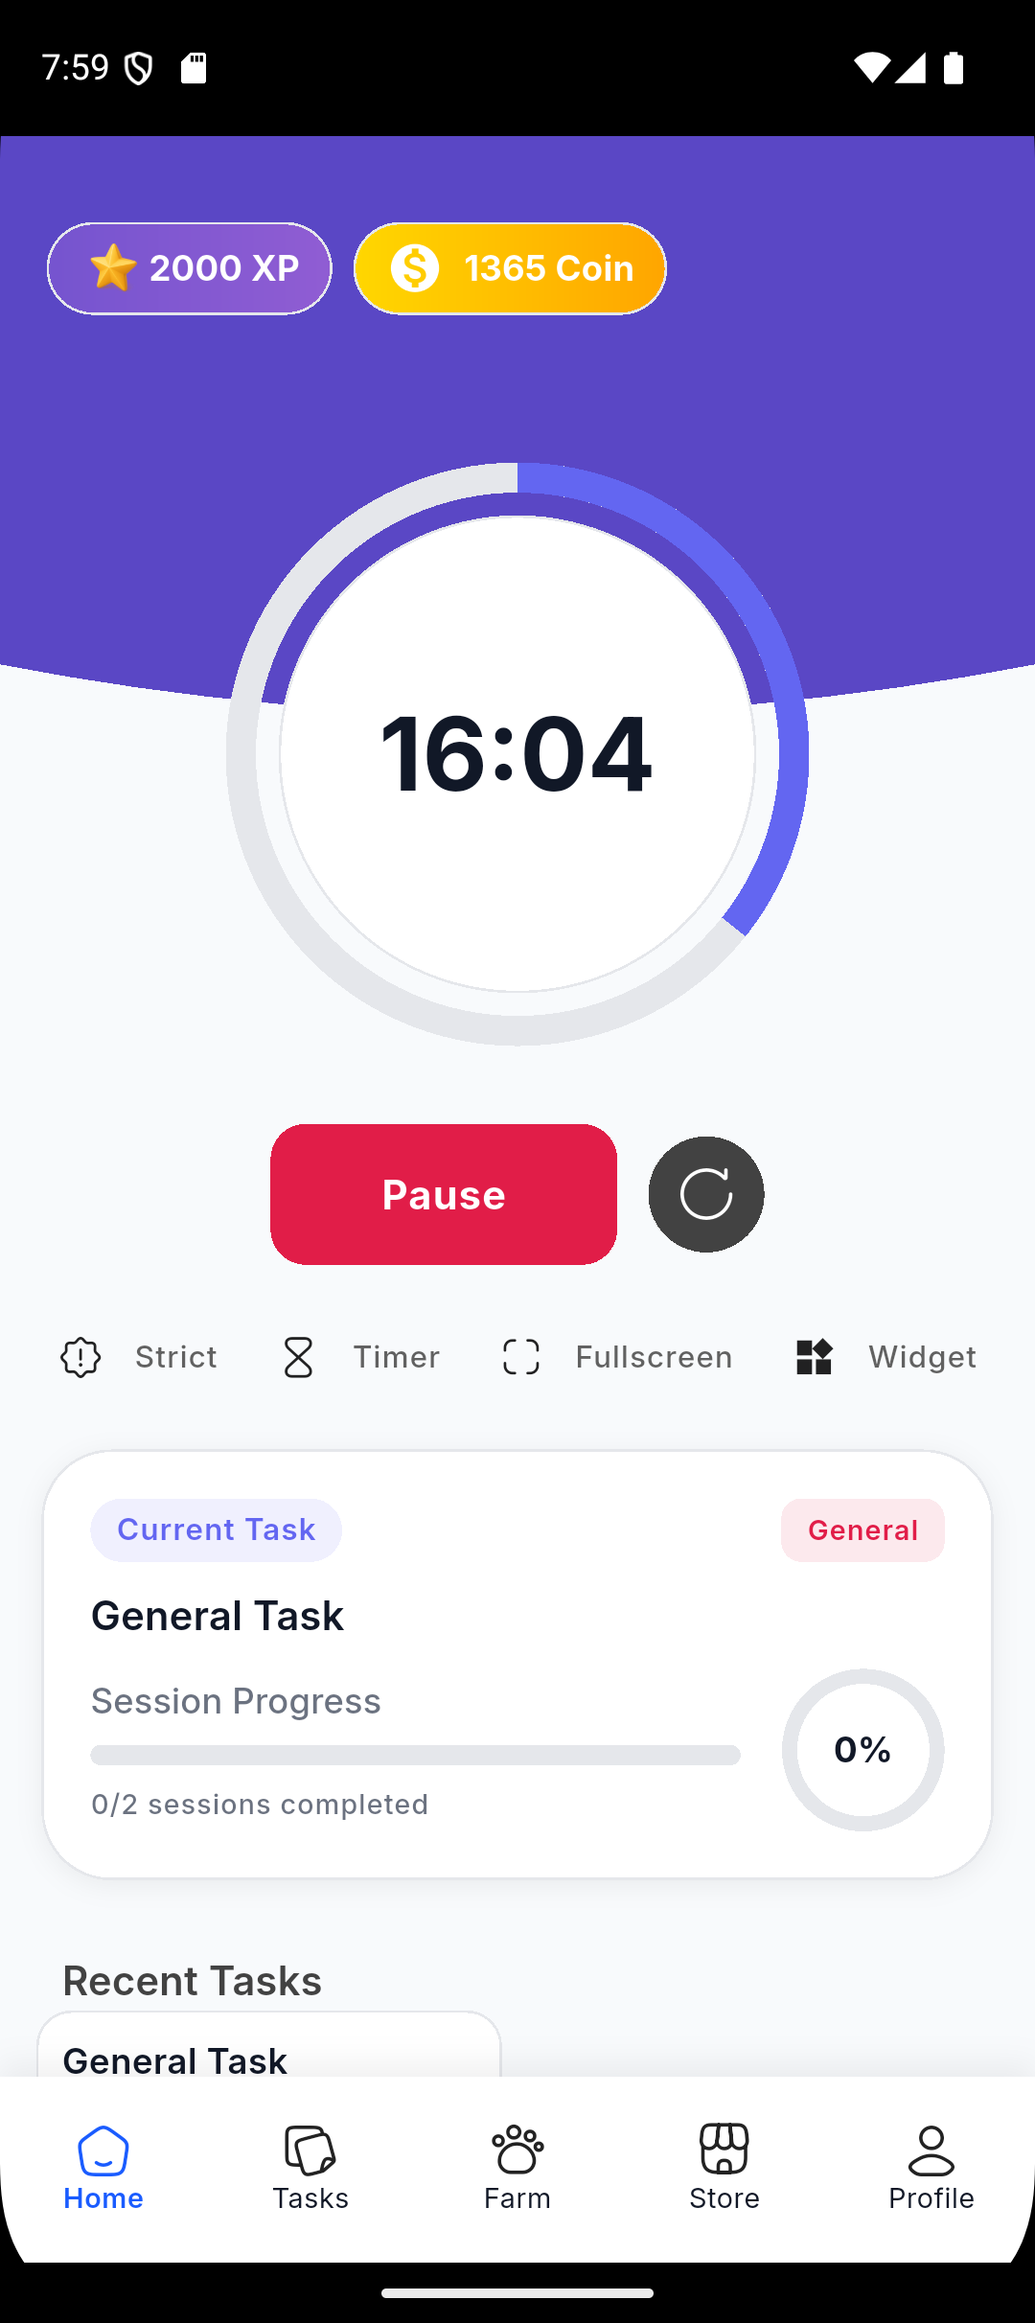
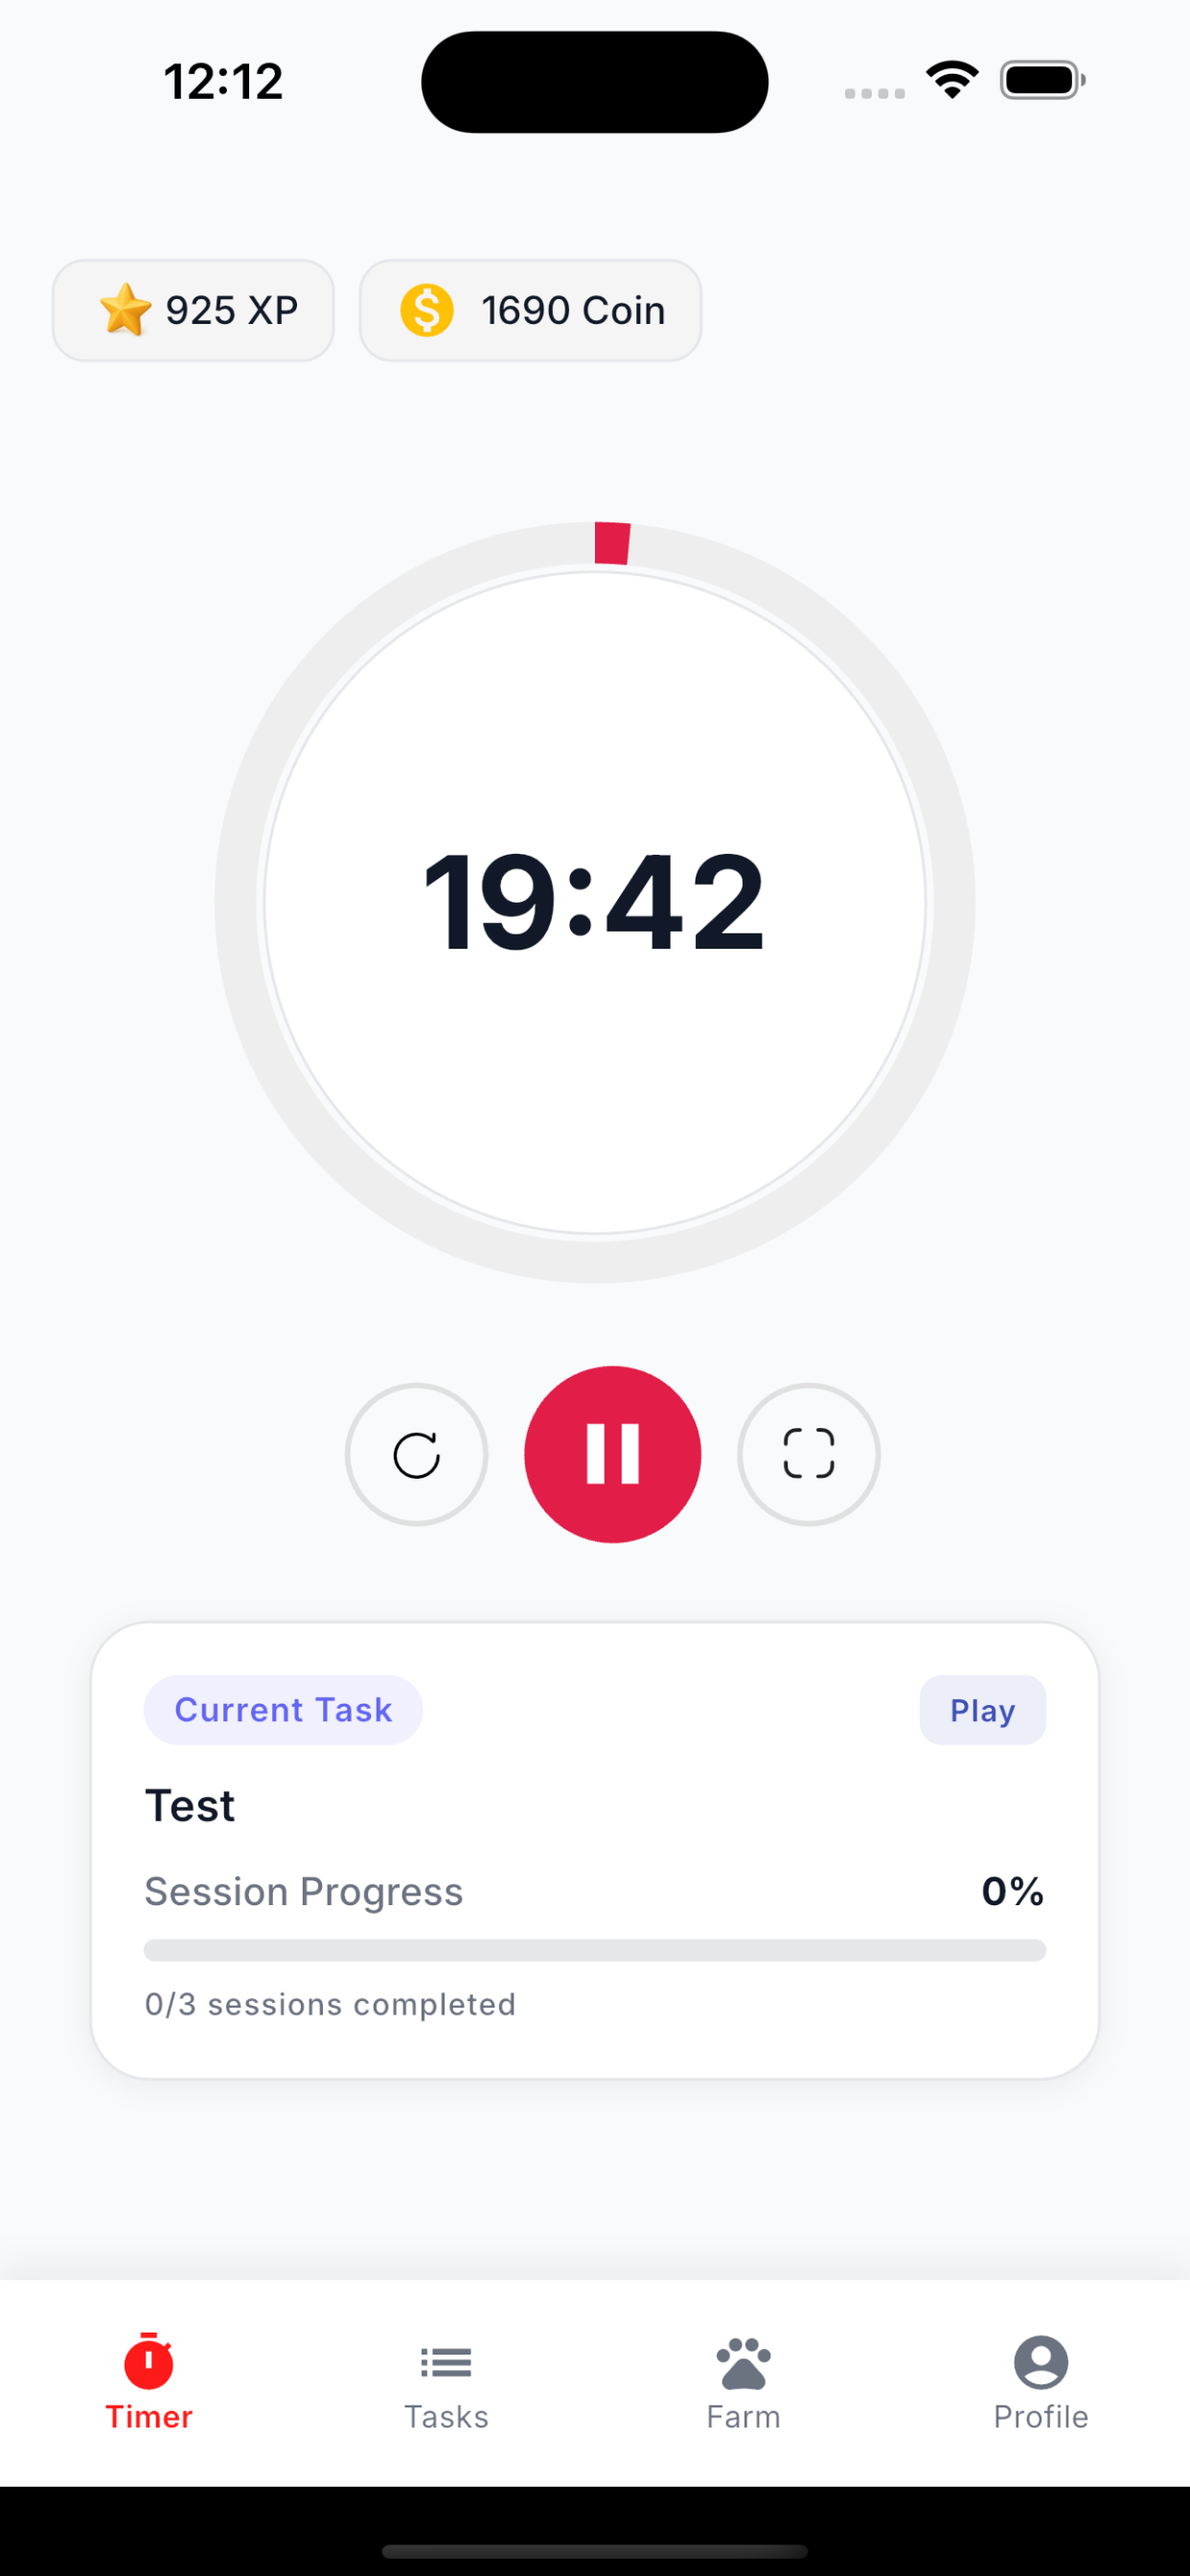
new apps

diff --git a/src/components/sections/Projects.tsx b/src/components/sections/Projects.tsx
@@ -27,8 +27,13 @@ const Projects: React.FC = () => {
         mainImage: require('../../assets/project/farmodo/farmodo-home.png'),
         images: [
           require('../../assets/project/farmodo/farmodo-home.png'),
-          require('../../assets/project/farmodo/farmodo-reward.png'),
-          require('../../assets/project/farmodo/farmodo-store.png')
+          require('../../assets/project/farmodo/farmodo-task.png'),
+          require('../../assets/project/farmodo/farmodo-fullscreen.png'),
+          require('../../assets/project/farmodo/farmodo-store.png'),
+          require('../../assets/project/farmodo/farmodo-reward.jpg'),
+          require('../../assets/project/farmodo/farmodo-reward-1.jpg'),
+          require('../../assets/project/farmodo/farmodo-reward-2.jpg'),
+          require('../../assets/project/farmodo/farmodo-profile.png'),
         ]
       },
     {
@@ -40,7 +45,23 @@ const Projects: React.FC = () => {
       images: [
         require('../../assets/project/vpn/vpn-home.png'),
         require('../../assets/project/vpn/vpn-home-dark.png'),
-        require('../../assets/project/vpn/vpn-connect.png')
+        require('../../assets/project/vpn/vpn-connect.png'),
+        require('../../assets/project/vpn/vpn_disconnect_light.png'),
+      ]
+    },
+    {
+      id: 'linguaswipe',
+      title: 'Linguaswipe',
+      description: 'Linguaswipe is a language learning app that allows you to learn languages by swiping through words.',
+      technologies: ['Flutter', 'Git', 'Shared Preferences', 'SQFlite', 'Easy Localization', 'Provider'],
+      mainImage: require('../../assets/project/linguaswipe/linguaswipe-home.png'),
+      images: [
+        require('../../assets/project/linguaswipe/linguaswipe-card-front.jpg'),
+        require('../../assets/project/linguaswipe/linguaswipe-card-back.jpg'),
+        require('../../assets/project/linguaswipe/linguaswipe-selector.jpg'),
+        require('../../assets/project/linguaswipe/linguaswipe-words.jpg'),
+        require('../../assets/project/linguaswipe/linguaswipe-progress.jpg'),
+        require('../../assets/project/linguaswipe/linguaswipe-splash.jpg'),
       ]
     },
     {
@@ -51,7 +72,9 @@ const Projects: React.FC = () => {
         mainImage: require('../../assets/project/takasla/takasla-home.png'),
         images: [
           require('../../assets/project/takasla/takasla-home.png'),
-          require('../../assets/project/takasla/takasla-swiper.png')
+          require('../../assets/project/takasla/takasla-swiper.png'),
+          require('../../assets/project/takasla/takasla-message.png'),
+          require('../../assets/project/takasla/takasla-brands.png'),
         ]
       },
     {
